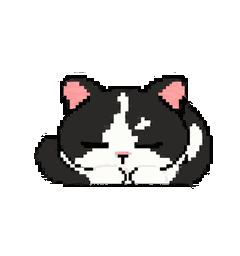
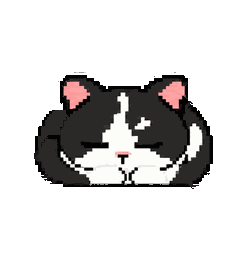
art: apply approved rounded left dozing contour across six frames and previews

Changed region(s): [[0.1458, 0.4062, 0.2917, 0.5938]]

diff --git a/desktop/tests/test_portability.py b/desktop/tests/test_portability.py
@@ -34,7 +34,12 @@ class PortabilityTests(unittest.TestCase):
         for name,info in manifest.items():
             path=ROOT/name if name.startswith('lite/') else ROOT/'shared/sprites'/name
             self.assertEqual(hashlib.sha256(path.read_bytes()).hexdigest(),info['sha256'])
-            self.assertTrue(info['unchanged_copy'])
+            if name == 'dozing.png' and info.get('approved_edit'):
+                self.assertFalse(info['unchanged_copy'])
+                self.assertEqual(info['edit_scope'], 'left-temple-contour-only')
[1 lines of base64/hex data omitted]
+            else:
+                self.assertTrue(info['unchanged_copy'])
         installed=Path.home()/'.codex/pets/chunxi'
         if all((installed/name).exists() for name in ('pet.json','spritesheet.webp')):
             for name in ('pet.json','spritesheet.webp'):
@@ -43,3 +48,4 @@ class PortabilityTests(unittest.TestCase):
 
 if __name__=='__main__':
     unittest.main(verbosity=2)
+

diff --git a/README.en.md b/README.en.md
@@ -20,9 +20,9 @@ The resting and watching preview has its own row and a 240 × 256 transparent ca
 
 ![Chunxi dozing animation](docs/media/dozing-source.gif)
 
-The dozing preview uses the same 240 × 256 transparent canvas as the resting and watching preview. Relative to equal-padding placement, it is shifted 4 pixels right and 2 pixels up to balance the visual weight of the left-side body contour. All six frames share the same offset; character pixels and size are unchanged. [Compare the static frame at the same position](docs/media/dozing-preview.png).
+The dozing preview uses the same 240 × 256 transparent canvas as the resting and watching preview. Relative to equal-padding placement, it is shifted 4 pixels right and 2 pixels up to balance the visual weight of the left-side body contour. All six frames share the same offset; size and existing markings are preserved. The user-approved rounded contour below the left ear is applied to all six frames. [Compare the static frame at the same position](docs/media/dozing-preview.png).
 
-These looping GIFs preview existing animation assets used by the desktop pet; they are not a real-time recording of autonomous behavior. Preview speed does not represent actual action frequency. In the app, blinks and ear twitches occur at randomized intervals, with watchful resting and dozing after inactivity. No character artwork or animation was recreated.
+These looping GIFs preview existing animation assets used by the desktop pet; they are not a real-time recording of autonomous behavior. Preview speed does not represent actual action frequency. In the app, blinks and ear twitches occur at randomized intervals, with watchful resting and dozing after inactivity. Existing artwork and animation are preserved apart from the approved local repair to the dozing pose's left contour.
 
 ## Download and run
 

diff --git a/README.md b/README.md
@@ -20,9 +20,9 @@
 
 ![春喜打盹动画演示](docs/media/dozing-source.gif)
 
-打盹演示使用与趴着观察一致的 240 × 256 透明画布，在等量扩边居中位置基础上向右微移 4 像素、向上微移 2 像素，以平衡左侧身体轮廓的视觉重量。六帧使用同一偏移，角色像素和大小不变。[查看同位置的单帧静态预览](docs/media/dozing-preview.png)。
+打盹演示使用与趴着观察一致的 240 × 256 透明画布，在等量扩边居中位置基础上向右微移 4 像素、向上微移 2 像素，以平衡左侧身体轮廓的视觉重量。六帧使用同一偏移，大小与原有花纹保持不变；左耳下方的外轮廓已按确认样式补圆，六帧同步修补。[查看同位置的单帧静态预览](docs/media/dozing-preview.png)。
 
-以上为桌宠已使用的原有动画素材预览（循环 GIF），不是自动行为的实时录像。演示播放速度不代表实际动作频率；运行时春喜会按随机间隔眨眼、耳抖，空闲后再进入趴着观察和打盹。未重新制作角色或动画。
+以上为桌宠已使用的原有动画素材预览（循环 GIF），不是自动行为的实时录像。演示播放速度不代表实际动作频率；运行时春喜会按随机间隔眨眼、耳抖，空闲后再进入趴着观察和打盹。除已确认的打盹左侧轮廓局部修补外，保留原有角色和动画。
 
 ## 下载与启动
 
